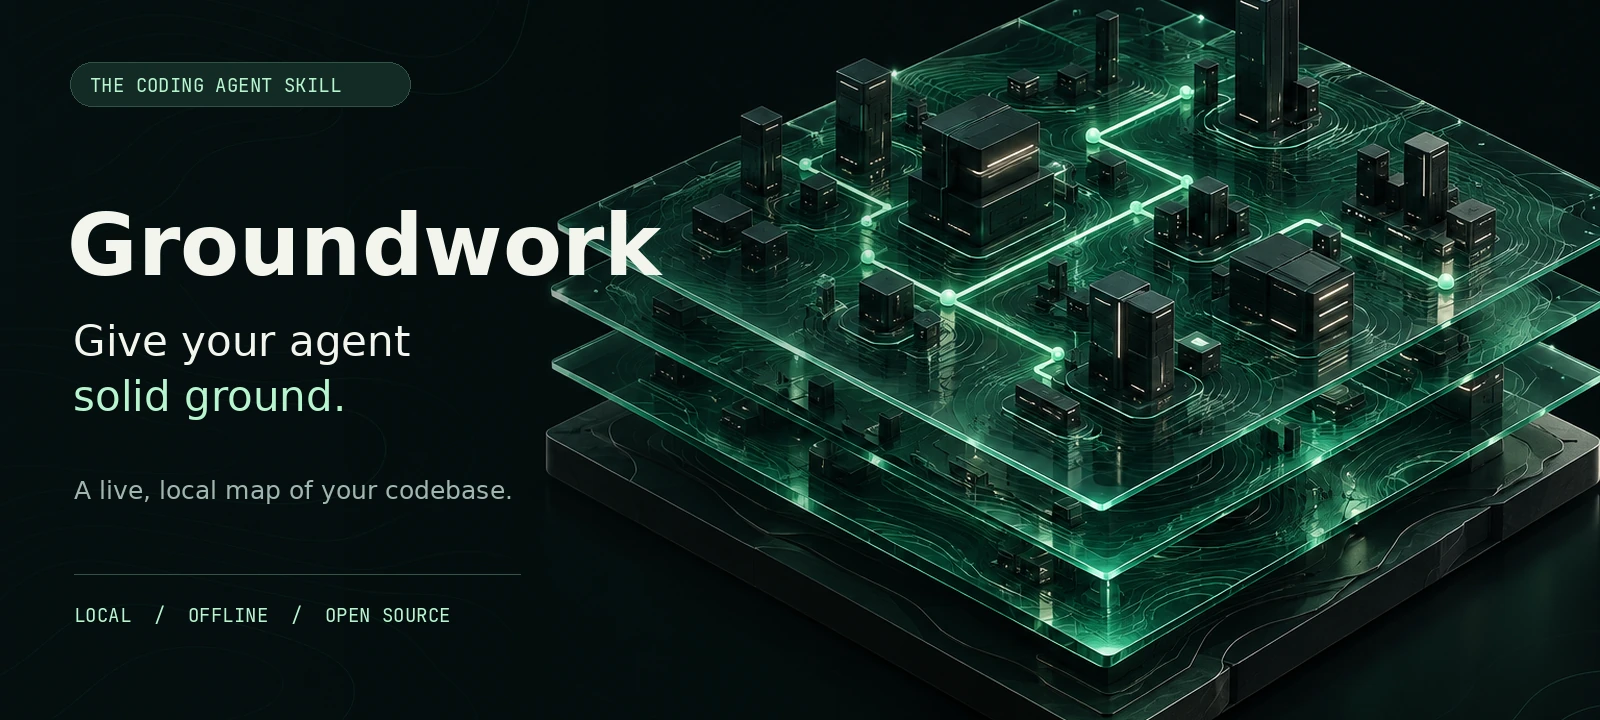
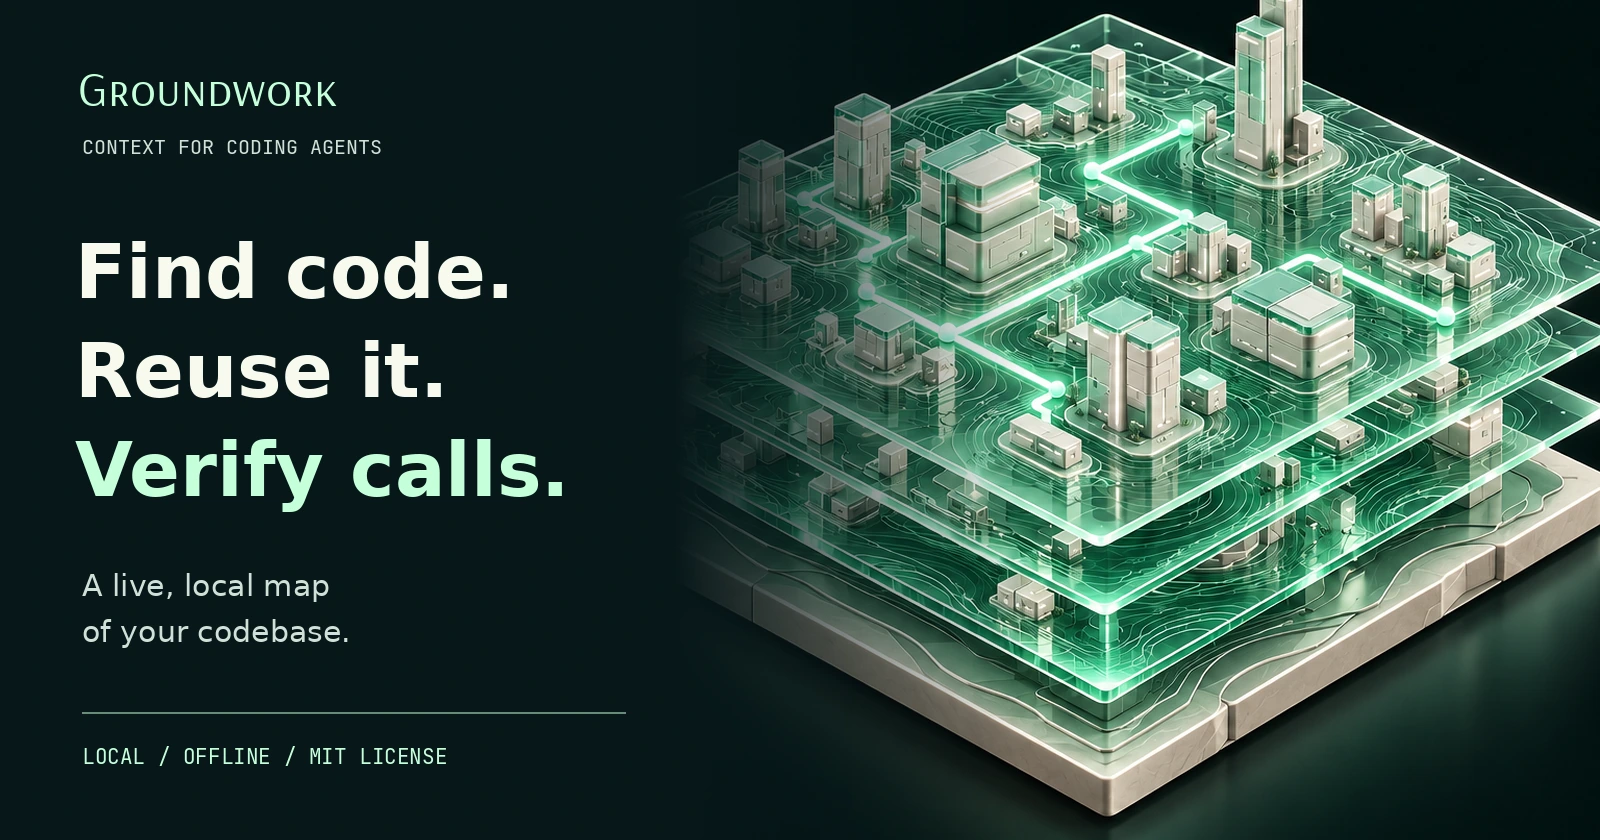
Brighten README artwork and make the workflow immediately clear (#16)
* docs: brighten README artwork and clarify the agent workflow

* docs: credit Aditya by first name only

diff --git a/docs/assets/README.md b/docs/assets/README.md
@@ -1,6 +1,14 @@
 # README artwork
 
-- `groundwork-hero.webp`, `groundwork-workflow.webp` and `groundwork-workflow-mobile.webp` are AI-generated brand illustrations, generated for this repository with OpenAI's image generation tool, then cropped, typeset and compressed to WebP. They are conceptual artwork, not product screenshots or measured results.
+- `groundwork-hero.webp`, `groundwork-hero-mobile.webp`, `groundwork-workflow.webp` and `groundwork-workflow-mobile.webp` are AI-generated brand illustrations, generated for this repository with OpenAI's image generation tool, then cropped, typeset and compressed to WebP. They are conceptual artwork, not product screenshots or measured results.
 - `architecture.svg` and `architecture-mobile.svg` are editable, hand-authored diagrams of the local architecture. The mobile assets stack their content to keep it legible on narrow screens; HTML picture sources choose the composition. Text equivalents for the diagrams appear in the project README.
 
 All assets are stored locally so the README does not depend on a third-party image host. The repository's MIT license applies.
+
+## Art direction and readability
+
+The contrast revision uses brighter ivory surfaces and mint routes so objects separate from the dark background, rather than relying on green-on-green shadows. The headline names the actual workflow: find code, reuse it, and verify calls. Both the hero and diagrams have dedicated mobile compositions.
+
+Text is placed on solid fields. The foreground palette (`#f8faef`, `#c5ffda`, `#d1e1d8`) against `#071719` has nominal contrast ratios of 17.38:1, 16.31:1 and 13.51:1 respectively, calculated with the WCAG relative-luminance formula before WebP encoding. These are palette measurements, not an accessibility certification of the rendered README. Ordinary README text and descriptive alt text carry the same meaning outside the artwork.
+
+Research and tools: [Anthropic canvas-design](https://github.com/anthropics/skills/tree/main/skills/canvas-design), [W3C contrast guidance](https://www.w3.org/WAI/WCAG22/Understanding/contrast-minimum), Pillow for layout and WebP export, and CairoSVG for checking the editable diagrams. PNG masters were used during design; the repository ships optimized WebP copies. The hero wordmark uses [Arsenal SC](https://github.com/anthropics/skills/tree/main/skills/canvas-design/canvas-fonts), with DejaVu Sans and JetBrains Mono for the supporting typography.

diff --git a/README.md b/README.md
@@ -1,5 +1,8 @@
 <p align="center">
-  <img src="docs/assets/groundwork-hero.webp" alt="Groundwork — give your coding agent solid ground. A live, local map of your codebase. Local, offline and open source." width="100%">
+  <picture>
+    <source media="(max-width: 600px)" srcset="docs/assets/groundwork-hero-mobile.webp">
+    <img src="docs/assets/groundwork-hero.webp" alt="Groundwork: find code, reuse it, and verify calls. A live, local map of your codebase for coding agents. Local, offline and MIT licensed." width="100%">
+  </picture>
 </p>
 
 <h1 align="center">Less searching. More building.</h1>
@@ -313,6 +316,6 @@ To work on Groundwork itself: `npm test`, `npm run typecheck`, `npm run build`, 
 
 <p align="center">
   <strong>Give your agent solid ground.</strong><br>
-  Built by <a href="https://github.com/ADITYADEV4145">Aditya Punjani</a> · <a href="LICENSE">MIT licensed</a><br>
+  Built by <a href="https://github.com/ADITYADEV4145">Aditya</a> · <a href="LICENSE">MIT licensed</a><br>
   <sub>The generated illustrations are conceptual artwork, not product screenshots.</sub>
 </p>
